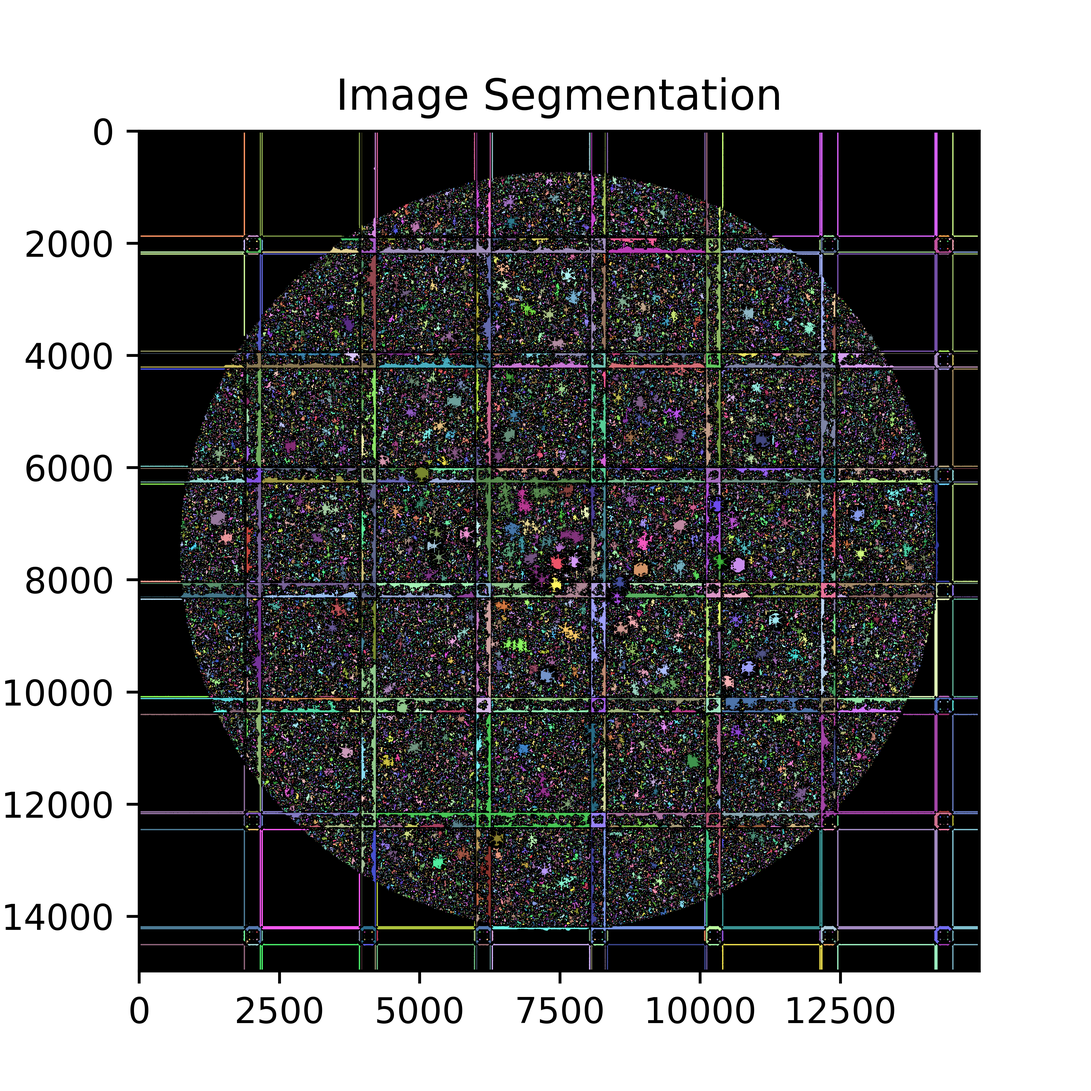
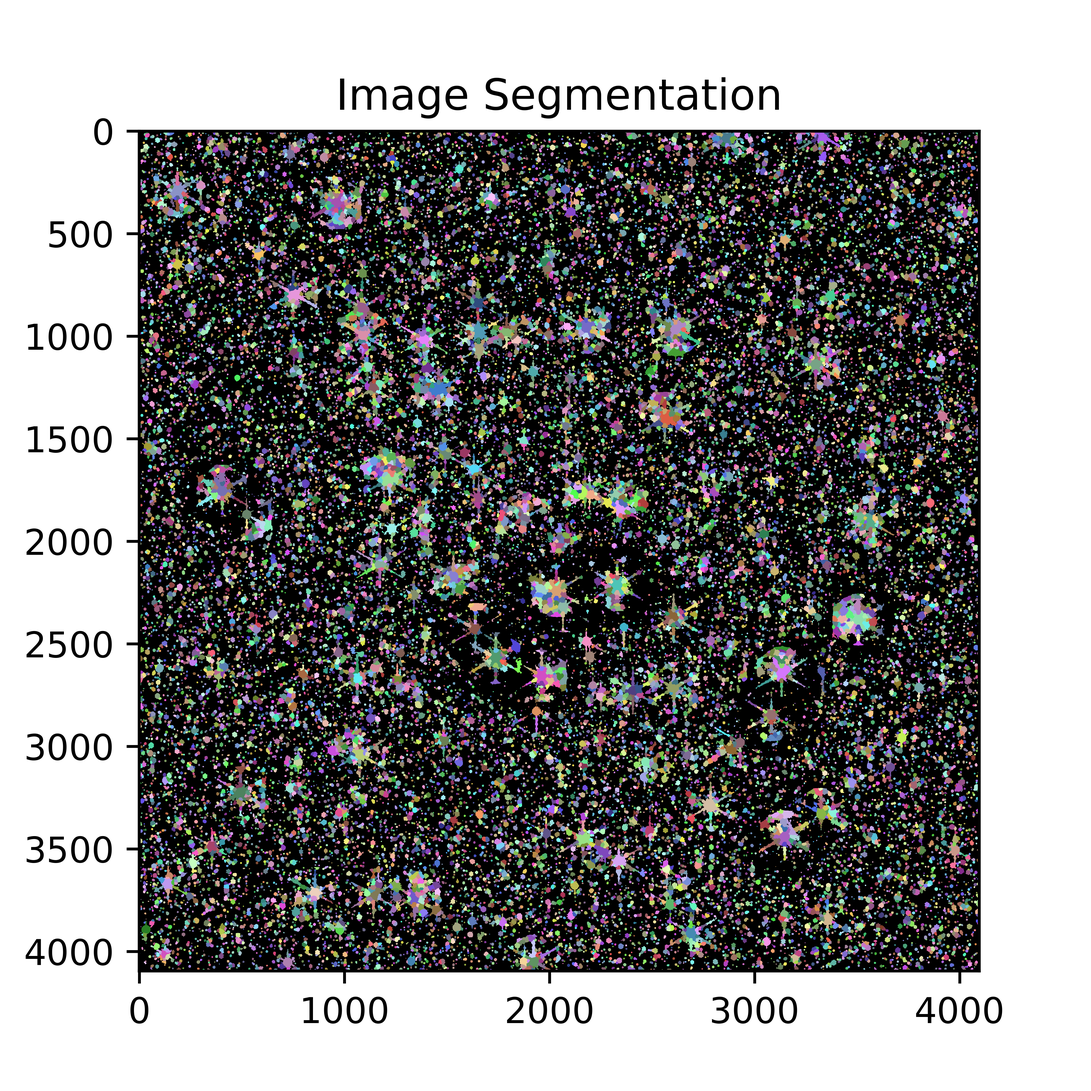
in cpp minor fixes in Photometry: working on generating&storing data for second timestep

Changed region(s): [[0.0, 0.125, 0.9375, 0.9375], [0.0312, 0.1875, 0.0938, 0.25]]

diff --git a/Python/Photometry/Photometry/Photutils.py b/Python/Photometry/Photometry/Photutils.py
@@ -13,14 +13,17 @@ from astropy.io import fits
 from astropy.convolution import Gaussian2DKernel
 from astropy.stats import gaussian_fwhm_to_sigma
 from astropy.visualization import SqrtStretch, simple_norm
+from astropy.table import QTable
 
 from config import fits_path, output_path, save_img, timestep, pixelfactor,n_pixel
 from database import Database
+from util import generate_velocity_and_index
 
 def flux_to_mag(flux):
     #http://ircamera.as.arizona.edu/astr_250/Lectures/Lecture_13.htm
-    #3880 = 0-magnitude flux in V filter
-    return -2.5 * np.log10(flux/3880)
+    #3880 = 0-magnitude flux in V filter | 640 for K filter
+    #Data from http://www.astronomy.ohio-state.edu/~martini/usefuldata.html
+    return -2.5 * np.log10(flux/640)
 
 def image_segmentation(image, save_color=False,deblend=True):
     #threshold = detect_threshold(image, nsigma=2.)
@@ -50,7 +53,7 @@ def image_segmentation(image, save_color=False,deblend=True):
     tbl = cat.to_table(columns=columns)
     #print(tbl)
     #plot
-    if(save_img):
+    if(save_img or save_color):
         if(save_color):
             fig = plt.figure(figsize=(409.6/96, 409.6/96), dpi=96)
             cmap = segm.make_cmap(seed=123)
@@ -91,16 +94,42 @@ def use_DAOStarFinder(image):
         plt.imshow(image, origin='upper', norm=LogNorm())
         apertures.plot(color='white', lw=0.5, alpha=0.5)
         fig.savefig(output_path + "/DAOPhotutils_"+datetime.now().strftime("%Y_%m_%d_%H%M%S")+".png",dpi=960)
+    return sources
 
 def main():
+    db = Database()
+    db.select_points(0,True)
+
+    return
+
     hdu = fits.open(fits_path)[1]
     image = hdu.data[:, :].astype(float)
-    stars = image_segmentation(image,save_color=True,deblend=False)
-    #use_DAOStarFinder(image)
-    #db = Database()
-    #origin = n_pixel/2.
-    #for star in stars:
-    #    db.insert_star(timestep, flux_to_mag(star['kron_flux']), pixelfactor*(star['xcentroid']-origin), pixelfactor*(star['ycentroid']-origin))
+    print("[1]DAOStarFinder\n[2]Image Segmentation")
+    selection = int(input())
+    stars = QTable()
+    if selection == 1:
+        stars = use_DAOStarFinder(image)
+    elif selection == 2:
+        stars = image_segmentation(image,save_color=False,deblend=True)
+    print("[1] Write found stars to DB!\n[2] no ty")
+    selection = int(input())
+    if selection == 1:
+        db = Database()
+        origin = n_pixel/2.
+        points = np.ndarray((len(stars),),dtype=np.object)
+        for i, star in enumerate(stars):
+            points[i] = Point(position=[pixelfactor*(star['xcentroid']-origin),pixelfactor*(star['ycentroid']-origin)],
+                                id=-1,
+                                magnitude=flux_to_mag(star['kron_flux']))
+        if(timestep>0):
+            points_t0 = db.select_points(timestep-1,True) #get observed stars from previous timestep
+            points_t0, points = generate_velocity_and_index(points_t0,points)
+            db.insert_points(points_t0,timestep-1)
+            db.insert_points(points,timestep)
+        else:
+            db.insert_points(points,timestep)
+
+
 
 if __name__ == '__main__':
     main()

diff --git a/Python/Photometry/Photometry/database.py b/Python/Photometry/Photometry/database.py
@@ -1,5 +1,6 @@
 import sqlite3
 import numpy as np
+from point import Point
 
 from config import simulation_id, database_path
 
@@ -35,18 +36,29 @@ class Database:
         if self.conn is None:
             connect(database_path)
         cur = self.conn.cursor()
-        cur.execute("INSERT INTO position (id_star,timestep,aHTP,dHTP) VALUES (?1,?2,?3,?4)",
+        cur.execute("REPLACE INTO position (id_star,timestep,aHTP,dHTP) VALUES (?1,?2,?3,?4)",
                    (id_star,timestep,ascension,declination))
         self.conn.commit()
 
-    def insert_star(self,timestep,magnitude,ascension,declination,is_observed=1):
+    def insert_velocity_HTP(self,timestep,id_star,ascension,declination):
         if self.conn is None:
             connect(database_path)
         cur = self.conn.cursor()
-        cur.execute("INSERT INTO star (id_simulation, magnitude, isObserved) VALUES (?1,?2,?3)",
-            (simulation_id,magnitude,is_observed))
+        cur.execute("REPLACE INTO velocity (id_star,timestep,aHTP,dHTP) VALUES (?1,?2,?3,?4)",
+                   (id_star,timestep,ascension,declination))
+        self.conn.commit()
+
+    def insert_star(self,timestep,magnitude,ascension,declination,v_ascension=np.nan,v_declination=np.nan,observed=True):
+        if self.conn is None:
+            connect(database_path)
+        cur = self.conn.cursor()
+        cur.execute("REPLACE INTO star (id_simulation, magnitude, isObserved) VALUES (?1,?2,?3)",
+            (simulation_id,magnitude,observed))
         id_star = cur.lastrowid
         self.insert_position_HTP(timestep,id_star,ascension,declination)
+        if v_ascension != np.nan and v_declination != nan:
+            insert_velocity_HTP(self,timestep,id_star,v_ascension,v_declination)
+
         return id_star
 
     def select_2d_stars(self,timestep):
@@ -59,3 +71,24 @@ class Database:
            and position.rH NOT NULL""", (simulation_id,timestep))
         rows = np.array(cur.fetchall())
         return rows
+
+    def select_points(self, timestep, observed = True):
+        cur = self.conn.cursor()
+        cur.execute("""SELECT star.id, position.timestep, position.aHTP, position.dHTP, velocity.aHTP, velocity.dHTP, star.isCluster, star.magnitude 
+		    FROM star 
+		    LEFT JOIN position on position.id_star = star.id 
+		    LEFT JOIN velocity on velocity.id_star = star.id AND position.timestep = velocity.timestep 
+		    WHERE star.id_simulation = ?1 AND position.timestep = ?2 
+		    AND star.isObserved = ?3""", (simulation_id,timestep,observed))
+        result = cur.fetchall()
+        array = np.ndarray((len(result),),dtype=np.object)
+        for i, line in enumerate(result):
+            array[i] = Point(position=line[2:4],velocity=line[4:6],id=line[0],magnitude=line[7])
+        return array
+
+    def insert_points(self,points,timestep):
+        for point in points:
+            self.insert_star(timestep,point.magnitude,point.position[0],point.position[1],
+                             point.velocity[0],point.velocity[1])
+
+

diff --git a/Python/Photometry/Photometry/util.py b/Python/Photometry/Photometry/util.py
@@ -1,0 +1,28 @@
+from point import Point
+import numpy as np
+from config import eps_magnitude
+
+def generate_velocity_and_index(points_t0, points_t1):
+	""" 
+    Extracting the stars(=points) at t1 from the image online gives information about position and magnitude but not velocity or id of the star.
+	This function finds the corresponding stars from the previous timestep and sets the id of the future timestep 
+	as well as the velocity of the stars from the previous timestep accordingly.
+
+    :returns: updated point arrays
+    """
+	max_dist_pos = 0
+	for i in range(len(points_t0)-1): # loop through all points at timestep 0
+		minDist = -1
+		future_point_index = -1
+
+		for j in range(len(points_t1)-1): #compare to all points at timestep 1
+			current_dist = points_t0[i].get_distance(points_t1[j])
+			if (currentDist < minDist or minDist == -1) and abs(1 - points_t1[j].magnitude / points_t0[i].magnitude) < eps_magnitude:
+				minDist = currentDist
+				future_point_index = j
+			if maxDistPos < currentDist: 
+				maxDistPos = currentDist
+		points_t0[i].velocity[0] = points_t1[future_point_index].position[0] - points_t0[i].position[0]; #tecnically division by dt needed but dt is equal for all points
+		points_t0[i].velocity[1] = points_t1[future_point_index].position[1] - points_t0[i].position[1];
+		points_t1[future_point_index].id = points_t0[i].id
+	return points_t0, points_t1

diff --git a/Python/Photometry/Photometry/config.py b/Python/Photometry/Photometry/config.py
@@ -1,15 +1,18 @@
 import os # for relative paths
 
 simulation_id = 1
-timestep = 0
+timestep = 1
 pixelfactor = 0.004 #depends on instrument used with scopesim -> print(cmd["!INST.pixel_scale"])
 
 #paths
 output_base_path = os.path.join(os.path.abspath(__file__ + r"\..\..\..\.."), r"Output")
 output_path = os.path.join(output_base_path, "Simulation" + str(simulation_id))
 database_path = os.path.join(output_base_path,r"Database\Default.db")
-fits_path = os.path.join(output_base_path, "Simulation" + str(simulation_id)+r"\scopesim.fits")
+fits_path = os.path.join(output_base_path, "Simulation" + str(simulation_id)+r"\scopesim_t"+str(timestep)+".fits")
 
 #images
-save_img = True
-n_pixel = 14976
+save_img = False
+n_pixel = 4096 #Whole picutre: 14976 | 1 fov: 4096
+
+#analysis
+eps_magnitude = 0.01

diff --git a/src/Database.cpp b/src/Database.cpp
@@ -955,7 +955,7 @@ std::vector<std::vector<Point>> Database::selectPoints(int simulationID, int tim
 		"FROM star "
 		"LEFT JOIN position on position.id_star = star.id "
 		"LEFT JOIN velocity on velocity.id_star = star.id AND position.timestep = velocity.timestep "
-		"WHERE star.id_simulation = ?1 AND position.timestep IN (?2,?3) AND position.timestep = velocity.timestep "
+		"WHERE star.id_simulation = ?1 AND position.timestep IN (?2,?3) "
 		"AND star.isObserved = ?4";
 		if (minMagnitude != -1) {
 			query += " AND star.magnitude < ?5";

diff --git a/src/Analysis.cpp b/src/Analysis.cpp
@@ -186,7 +186,7 @@ void Analysis::write(){
 
 void Analysis::generateHTPVelocity(bool observed)
 {
-	std::vector<std::vector<Point>>& points = database->selectPoints(id, 0, 2);
+	std::vector<std::vector<Point>>& points = database->selectPoints(id, 0, 2,-1,observed);
 
 	int errorCounter = 0;
 	double maxDistPos = 0; //maximum spatial distance between any two stars used for setting epsSpace

diff --git a/Python/Photometry/Photometry/point.py b/Python/Photometry/Photometry/point.py
@@ -1,0 +1,14 @@
+from dataclasses import dataclass
+import numpy as np
+
+@dataclass
+class Point:
+    position: np.array([np.nan,np.nan])
+    velocity: np.array([np.nan,np.nan])
+    id: int #usually equal to id of the star
+    magnitude: float
+
+    def get_distance(self,pt2) -> float:
+        return np.linalg.norm(self.position-pt2.position)
+
+
